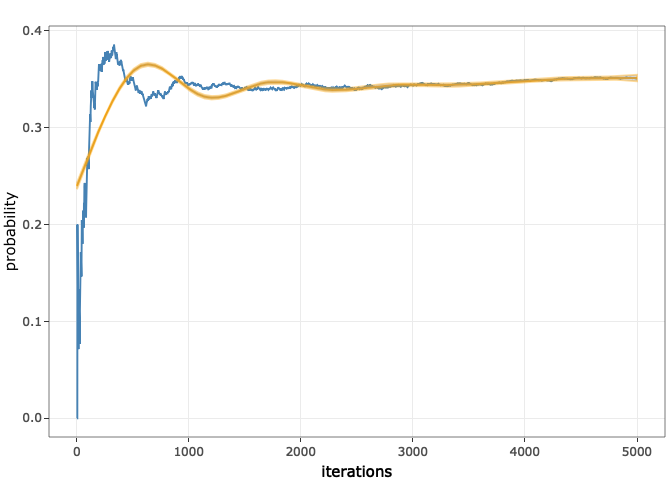
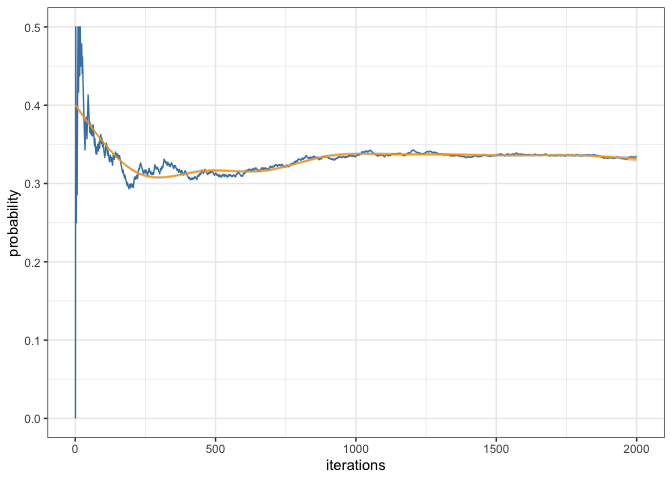
clean up README

diff --git a/README.md b/README.md
@@ -12,46 +12,64 @@ developed.](http://www.repostatus.org/badges/latest/active.svg)](https://www.rep
 [![AppVeyor Build
 Status](https://ci.appveyor.com/api/projects/status/github/ropensci/epubr?branch=master&svg=true)](https://ci.appveyor.com/project/leonawicz/epubr)
 
-## The Premise
+## Why you should care about this package
 
 This package provides functions & documentation for solving “The Bill
-Miller Problem” presented within the book entitled *The Drunkard’s Walk:
-How Randomness Rules Our Lives*, written by Leonard Mlodinow. More
+Miller Problem” presented within the book entitled [*The Drunkard’s
+Walk: How Randomness Rules Our
+Lives*](https://www.amazon.com/Drunkards-Walk-Randomness-Rules-Lives/dp/0307275175),
+written by theoretical physicist & mathematician [Leonard
+Mlodinow](https://en.wikipedia.org/wiki/Leonard_Mlodinow). More
 generally, the functions herein can be used to solve for, either
 analytically or by simulation, the likelihood of obtaining a winning
 streak of given length within a given number of attempts, attempted by a
 specified number of individuals.
 
-The premise of this story goes that Bill Miller (financier) was an
-amazing stock picker after having performed incredibly well - beating
-the market - defined as outperforming the S&P500 - each year over 15
-consecutive years. As a result, he was celebrated and acclaimed by the
-likes of Forbes and others, who claimed that the likelihood of his
-ability to perform this well was 1 in 32,768, or \~0.0032%, which is
-roughly true is one considers only the individual, Bill Miller, picking
-stocks.
+## Installation
 
-However, what Dr. Mlodinow understands is that there are many hedge
-funds all picking stocks and based on this fact, poses the question:
-“Out of 1000 stock pickers (coin tossers), what are the odds that 1 of
-them beats the market over 15 consecutive years?” The answer to which is
-roughly 3%.
+This package can be installed directly from GitHub via the `remotes`
+package.
+
+``` r
+remotes::install_github("mghoff/billmillr")
+```
+
+## The Premise
+
+The premise of this story goes that Bill Miller (financier) was received
+as an amazing stock picker after having performed incredibly well over
+15 consecutive years - beating the S&P500 stock index year after year.
+As a result, he was celebrated and acclaimed by the likes of Forbes and
+others, who estimated and published that the likelihood of his ability
+to perform this well being random chance was 1 in 32,768, or \~0.0032%,
+which is roughly true if one considers only the individual, Bill Miller,
+picking stocks. In other words, they claimed his winning streak is very
+likely *not* driven by random chance, but by his knowledge and intuition
+of the market allowing him to skillfully pick winning stocks at will.
+
+However, what Dr. Mlodinow understood and illustrated in his book is
+that there are/were many hedge fund managers all picking stocks. Based
+on this fact, he poses the following refinement to the above estimation:
+“Out of 1000 stock pickers (coin tossers), what are the odds that at
+least 1 of them beats the market over 15 consecutive years?” The answer
+to that question is roughly 3% - far greater than the original estimate
+of 0.0032%.
 
 Dr. Mlodinow then further refines this calculation by considering the
 scenario of beating the market 15 years consecutively or longer over a
 40 year period; i.e. over 40 years and with 1000 traders, what is the
 probability that at least 1 trader will obtain a winning streak of at
-least 15 years with the odds of winning in a given year equal to 0.5.
-Based on this refinement, Dr. Mlodinow claims the odds are roughly 3 out
-of 4, or 75%; however, he provides no proof or evidence of this claim.
+least 15 years with the odds of winning in a given year equal to 0.5 (a
+fair coin toss). Based on this further refinement, Dr. Mlodinow claims
+the odds are roughly 3 out of 4, or 75%; **however, he provides no proof
+or evidence of this claim.**
 
-**The resulting likelihood for any one person to beat the market within
-a definite start and stop time of at least 15 years in a single 40 year
-period, while larger than the 3% of his first calculation, is much
-smaller than the final proposed result of \~75%, which this package has
-been built to answer and results in a value of \~33%.**
+*Based on the functions within this package, both analytically and by
+numerical simulation, one can calculate these odds within a high degree
+of accuracy, and as such, it is found that the odds of this last refined
+scenario is \~33%, rather than Dr. Mlodinow’s claimed 75%.*
 
-## The Math
+### The Math
 
 #### Part 1:
 
@@ -61,11 +79,11 @@ heads (tails) from the toss of a coin.
 
 Mathematically,
 
-![](https://latex.codecogs.com/png.image?%5Cdpi%7B110%7D&space;%5Cbg_white&space;S%5BN%2C%20K%5D%20%3D%20p%5Ek%20%2B%20%5Csum_%7Bj%3D1%2C%20K%7D%20%5C%7B%20p%5E%7B%28j-1%29%7D%20%281-p%29%20S%5BN-j%2C%20K%5D%20%5C%7D)
+![S\[N, K\] = p^k + \sum\_{j=1, K} \\{ p^{(j-1)} (1-p) S\[N-j, K\] \\}](https://latex.codecogs.com/svg.image?S%5BN%2C%20K%5D%20%3D%20p%5Ek%20%2B%20%5Csum_%7Bj%3D1%2C%20K%7D%20%5C%7B%20p%5E%7B%28j-1%29%7D%20%281-p%29%20S%5BN-j%2C%20K%5D%20%5C%7D "S[N, K] = p^k + \sum_{j=1, K} \{ p^{(j-1)} (1-p) S[N-j, K] \}")
 
 which can be broken down recursively into the sum of terms:
 
-![](https://latex.codecogs.com/png.image?%5Cdpi%7B110%7D&space;%5Cbg_white&space;S%5Bn%2C%20k%5D%20%3D%20p%5Ek%20%2B%20...%20%3D%20%5Csum_%7Bj%3D1%2C%20k%7D%20%5C%7B%20p%5E%7B%28j-1%29%7D%20%281-p%29%20S%5Bn-j%2C%20k%5D%20%5C%7D%20%5Ctext%7B%20for%20%7D%201%20%5Cle%20j%20%5Cle%20k)
+![S\[n, k\] = p^k + ... = \sum\_{j=1, k} \\{ p^{(j-1)} (1-p) S\[n-j, k\] \\} \text{ for } 1 \le j \le k](https://latex.codecogs.com/svg.image?S%5Bn%2C%20k%5D%20%3D%20p%5Ek%20%2B%20...%20%3D%20%5Csum_%7Bj%3D1%2C%20k%7D%20%5C%7B%20p%5E%7B%28j-1%29%7D%20%281-p%29%20S%5Bn-j%2C%20k%5D%20%5C%7D%20%5Ctext%7B%20for%20%7D%201%20%5Cle%20j%20%5Cle%20k "S[n, k] = p^k + ... = \sum_{j=1, k} \{ p^{(j-1)} (1-p) S[n-j, k] \} \text{ for } 1 \le j \le k")
 
 which is provided by `odds_of_streak()`.
 
@@ -82,21 +100,23 @@ following:
 
 1.  Calculate the PDF:
 
-![](https://latex.codecogs.com/png.image?%5Cdpi%7B110%7D&space;%5Cbg_white&space;%5Cmathrm%7BP%7D%28M%20%3D%20k%29%20%3D%20%7BM%20%5Cchoose%20k%7Dp%5E%7Bk%7D%281-p%29%5E%7B%28M-k%29%7D)
+![\mathrm{P}(M = k) = {M \choose k}p^{k}(1-p)^{(M-k)}](https://latex.codecogs.com/svg.image?%5Cmathrm%7BP%7D%28M%20%3D%20k%29%20%3D%20%7BM%20%5Cchoose%20k%7Dp%5E%7Bk%7D%281-p%29%5E%7B%28M-k%29%7D "\mathrm{P}(M = k) = {M \choose k}p^{k}(1-p)^{(M-k)}")
 
 Again, this is provided by `odds_of_streak()`.
 
 2.  Then, calculate the CDF:
 
-![](https://latex.codecogs.com/png.image?%5Cdpi%7B110%7D&space;%5Cbg_white&space;%5Cmathrm%7BP%7D%28X%20%5Cle%20x%29%20%3D%20%5Csum_%7Bi%3D0%2Cx%7D%20%5Cmathrm%7Bpdf%7D%20%5Ctext%7B%20for%20%7D%20%7Bi%20%5Cle%20x%7D)
+![\mathrm{P}(X \le x) = \sum\_{i=0,x} \mathrm{pdf} \text{ for } {i \le x}](https://latex.codecogs.com/svg.image?%5Cmathrm%7BP%7D%28X%20%5Cle%20x%29%20%3D%20%5Csum_%7Bi%3D0%2Cx%7D%20%5Cmathrm%7Bpdf%7D%20%5Ctext%7B%20for%20%7D%20%7Bi%20%5Cle%20x%7D "\mathrm{P}(X \le x) = \sum_{i=0,x} \mathrm{pdf} \text{ for } {i \le x}")
 
 3.  And, finally, calculate the final result:
 
-![](https://latex.codecogs.com/png.image?%5Cdpi%7B110%7D&space;%5Cbg_white&space;%5Cmathrm%7BP%7D%28X%20%3E%20x%29%20%3D%201%20-%20%5Cmathrm%7BP%7D%28X%20%5Cle%20x%29%20%5Ctext%7B%3B%20i.e.%20%7D%201%20-%20%282%29)
+![\mathrm{P}(X \> x) = 1 - \mathrm{P}(X \le x) \text{; i.e. } 1 - (2)](https://latex.codecogs.com/svg.image?%5Cmathrm%7BP%7D%28X%20%3E%20x%29%20%3D%201%20-%20%5Cmathrm%7BP%7D%28X%20%5Cle%20x%29%20%5Ctext%7B%3B%20i.e.%20%7D%201%20-%20%282%29 "\mathrm{P}(X > x) = 1 - \mathrm{P}(X \le x) \text{; i.e. } 1 - (2)")
 
 which is provided by `prob_of_at_least_k()`.
 
-### Example 1: Mathematical Proof
+### Examples
+
+#### Example 1: Mathematical Proof
 
 Load Package…
 
@@ -104,63 +124,106 @@ Load Package…
 library(billmillr)
 ```
 
-Calculate the likelihood of obtaining a winning streak of at least 3
-heads out of 5 coin tosses given that the probability p (q) of heads
-(tails) is fair, i.e. p = q = 0.5.
+In the context of the Bill Miller problem, we calculate the probability
+of obtaining a winning streak of at least 15 heads out of 40 coin tosses
+given that the probability p (q) of heads (tails) is fair, i.e. p = q =
+0.5.
 
 ``` r
-pS <- odds_of_streak(num_coins = 5, min_heads = 3, prob_heads = 0.5)
+tictoc::tic()
+pS <- odds_of_streak(num_coins = 40, min_heads = 15, prob_heads = 0.5)
 pS
-#> [1] 0.25
+#> [1] 0.000411981018260121
+tictoc::toc(func.toc = msg.toc)
+#> 16.474 hours elapsed
 
-### NOTE:
-# Example from "The Drunkard's Walk: How Randomness Rules Our Lives"
-# tictoc::tic()
-# odds_of_streak(40, 15, 0.5) = 0.000411981
-# tictoc::toc() # 24713.89 sec elapsed (6.865 hours)
+sessionInfo()
+#> R version 4.1.2 (2021-11-01)
+#> Platform: aarch64-apple-darwin20 (64-bit)
+#> Running under: macOS Monterey 12.3.1
+
+#> Matrix products: default
+#> LAPACK: /Library/Frameworks/R.framework/Versions/4.1-arm64/Resources/lib/libRlapack.dylib
+
+#> locale:
+#> [1] en_US.UTF-8/en_US.UTF-8/en_US.UTF-8/C/en_US.UTF-8/en_US.UTF-8
+
+#> attached base packages:
+#> [1] stats graphics grDevices utils datasets methods base     
+
+#> other attached packages:
+#> [1] billmillr_0.2.5
+
+#> loaded via a namespace (and not attached):
+#> [1] compiler_4.1.2 tictoc_1.0.1 tools_4.1.2   
 ```
 
-Now calculate the probability that at least 1 person out of 8 people
-will obtain such a winning streak of 3 heads given that the probability
-of said streak is 0.25.
+Using `pS`, we can now calculate the probability that at least 1 out of
+1000 people will obtain such a winning streak.
 
 ``` r
-pK <- prob_of_at_least_k(N = 8, K = 1, p = pS)
+pK <- prob_of_at_least_k(N = 1000, K = 1, p = pS)
 pK
-#> [1] 0.8998871
-
-### NOTE:
-# Example from "The Drunkard's Walk: How Randomness Rules Our Lives" continued...
-# Result (1): P(X = k) where k = 0 is calculated as choose(n, k)*(p**k)*((1-p)**(n-k))
-# P(X = 0) ~= 0.66 => P(X > 0) ~= 1 - 0.66 = 0.33
+#> [1] 0.3377194
 ```
 
-### Example 2: Simulation
+#### Example 2: Simulation
 
-Run a simulation on the problem, and return the set of resulting data
+Simulate and return resulting data
 
 ``` r
-set.seed(1234)
+set.seed(1203)
+tictoc::tic()
 sim_data <- run_simulation(
-  iters = 5000,
-  trials = 8,
-  sample_space = c(0, 1),
-  sample_size = 5,
-  run_value = 1,
-  run_length = 3
-  )
+  iters = 2000,
+  trials = 1000, # Number of traders
+  sample_space = c("H", "T"),
+  sample_size = 40, # Number of years
+  run_value = "H",
+  run_length = 15 # Number of consecutive winning years
+)
+tictoc::toc()
+#> 38.893 sec elapsed
 
-tail(sim_data)
-#>      iterations applicable_trials prob_of_zero prob_of_ge_one
-#> 4995       4995                 0    0.1017017      0.8982983
-#> 4996       4996                 2    0.1016813      0.8983187
-#> 4997       4997                 0    0.1018611      0.8981389
-#> 4998       4998                 1    0.1018407      0.8981593
-#> 4999       4999                 1    0.1018204      0.8981796
-#> 5000       5000                 0    0.1020000      0.8980000
+sim_data[2000, 3:4]
+#>      prob_of_zero prob_of_ge_one
+#> 2000        0.666          0.334
 ```
 
-Plot the probability convergence of the simulation results
-<p>
-<img src="man/figures/README-fig1.png" class="centering" width="80%">
-</p>
+Plot convergence of simulation results
+![](man/figures/README-sim-plot-1.png)<!-- -->
+
+And finally, run a small bootstrap sampling of the simulation…
+
+``` r
+# Number of times to run the simulation
+bsn <- 500
+# Build an empty matrix of proper dimensions to capture results 
+bs_sim_mtx <- matrix(
+  data = 0, nrow = bsn, ncol = 2,
+  dimnames = list(c(), c("prob_of_zero", "prob_of_ge_one"))
+)
+
+# Time and run bootstrap sampling of the above simulation
+tictoc::tic()
+for (bsi in 1:bsn) {
+  dat <- run_simulation(
+    iters = 2000,
+    trials = 1000, # Number of traders
+    sample_space = c("H", "T"),
+    sample_size = 40, # Number of years
+    run_value = "H",
+    run_length = 15 # Number of consecutive winning years
+  )
+  # Take the last row from simulation data above as i-th entry into matrix
+  bs_sim_mtx[bsi, ] <- as.matrix(dat[bsn, 3:4])
+}
+tictoc::toc(func.toc = msg.toc)
+#> 5.178 hours elapsed
+
+colMeans(bs_sim_mtx)
+#>   prob_of_zero prob_of_ge_one 
+#>        0.66252        0.33748
+```
+
+![](man/figures/README-bsm-plot-1.png)<!-- -->
